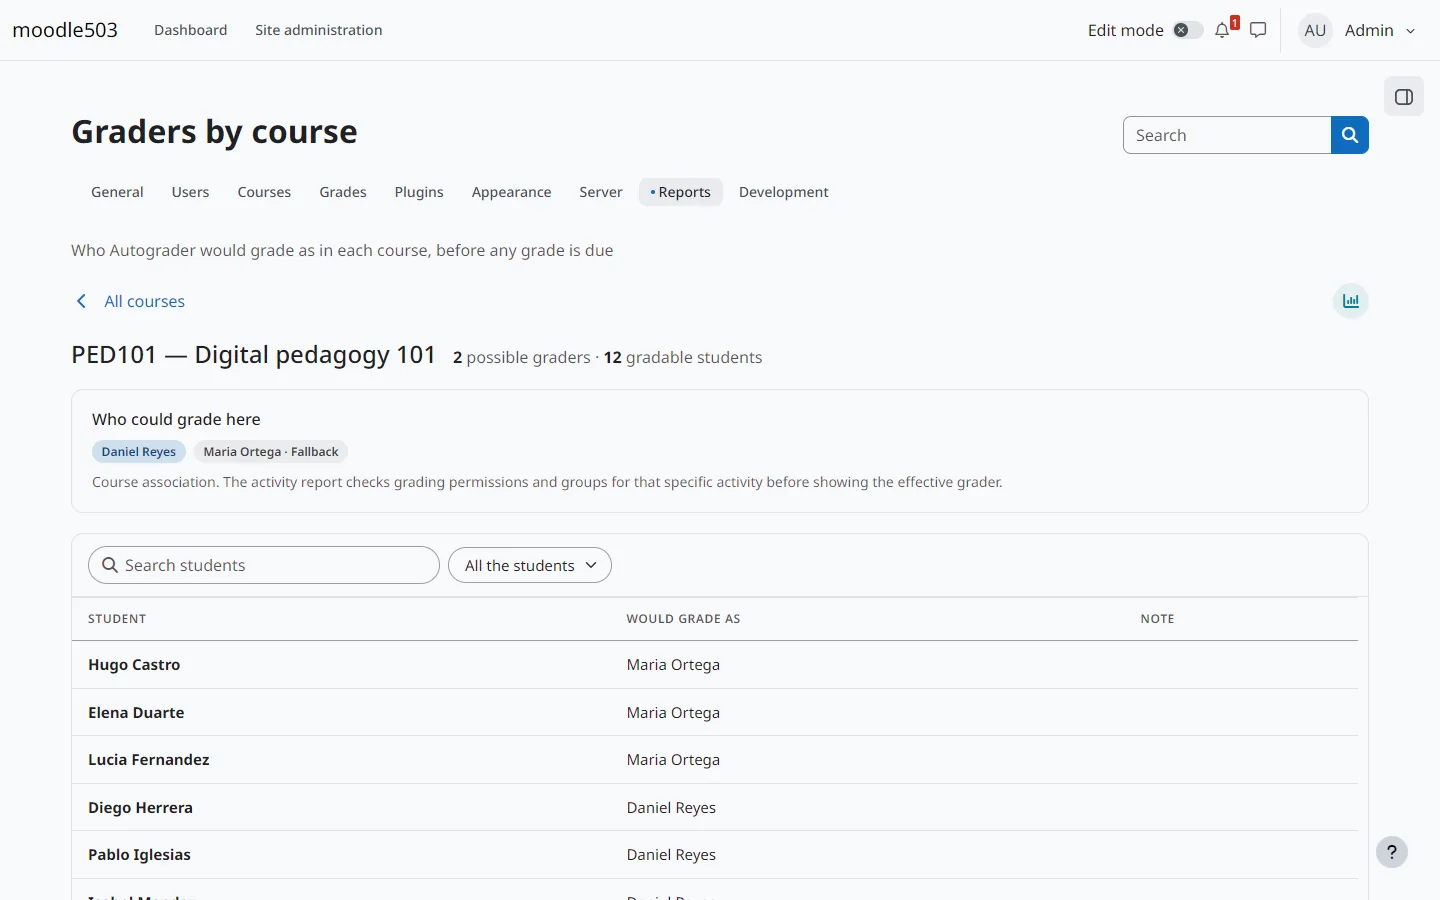
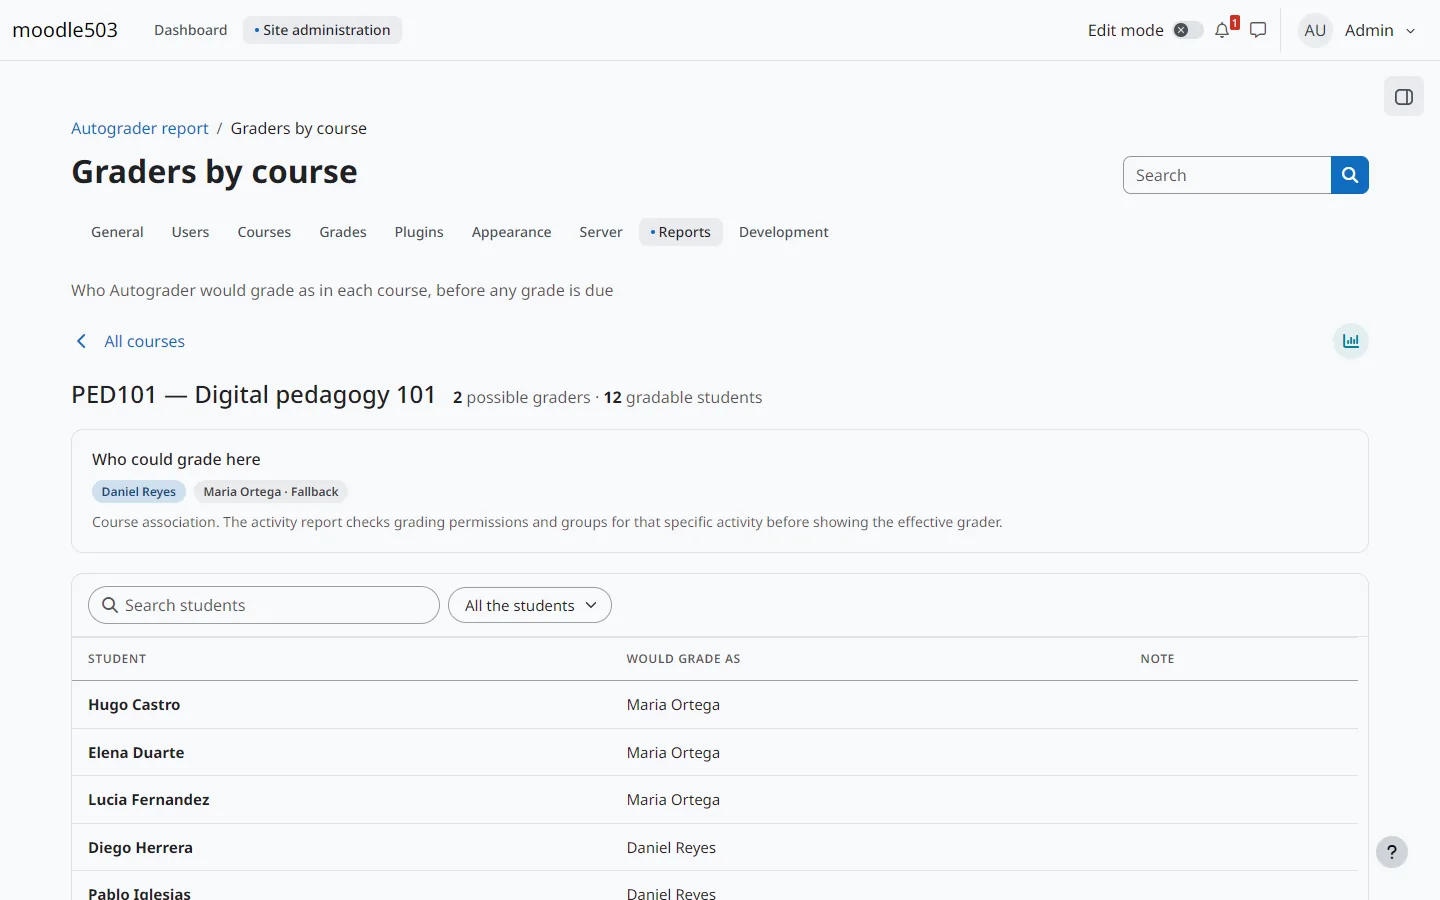
fix: the page of the graders of one course keeps the breadcrumb; the screenshots of the manual in Moodle 5.3
The page of one course is the same node of the administration tree as the list
of courses, so the breadcrumb no longer disappears. The screenshots of the user
manual are taken again in Moodle 5.3, with the dialog of the details of a row.

diff --git a/graders.php b/graders.php
@@ -35,7 +35,9 @@ $courseid = optional_param('courseid', 0, PARAM_INT);
 $students = optional_param('students', 0, PARAM_BOOL);
 
 require_login();
-admin_externalpage_setup('reportautogradergraders');
+// The page of one course is the same node of the administration tree as the list of courses, so the breadcrumb stays.
+navigation_node::override_active_url(new moodle_url('/report/autograder/graders.php'));
+admin_externalpage_setup('reportautogradergraders', '', null, new moodle_url('/report/autograder/graders.php'));
 
 if ($courseid > 0) {
     require_capability('report/autograder:viewcourse', context_course::instance($courseid));
